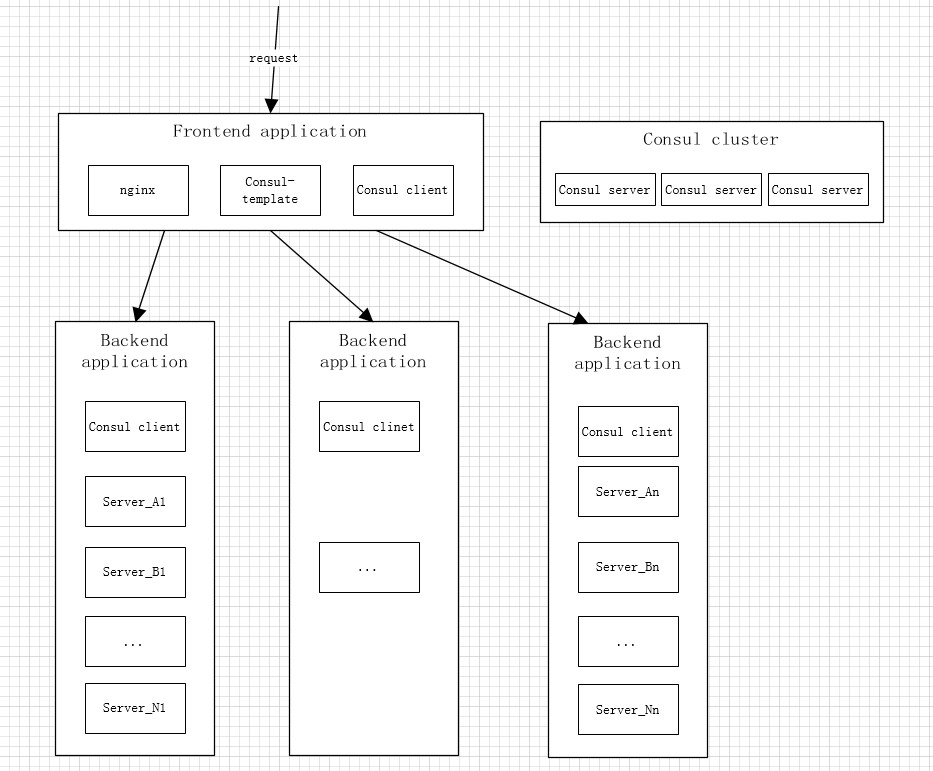
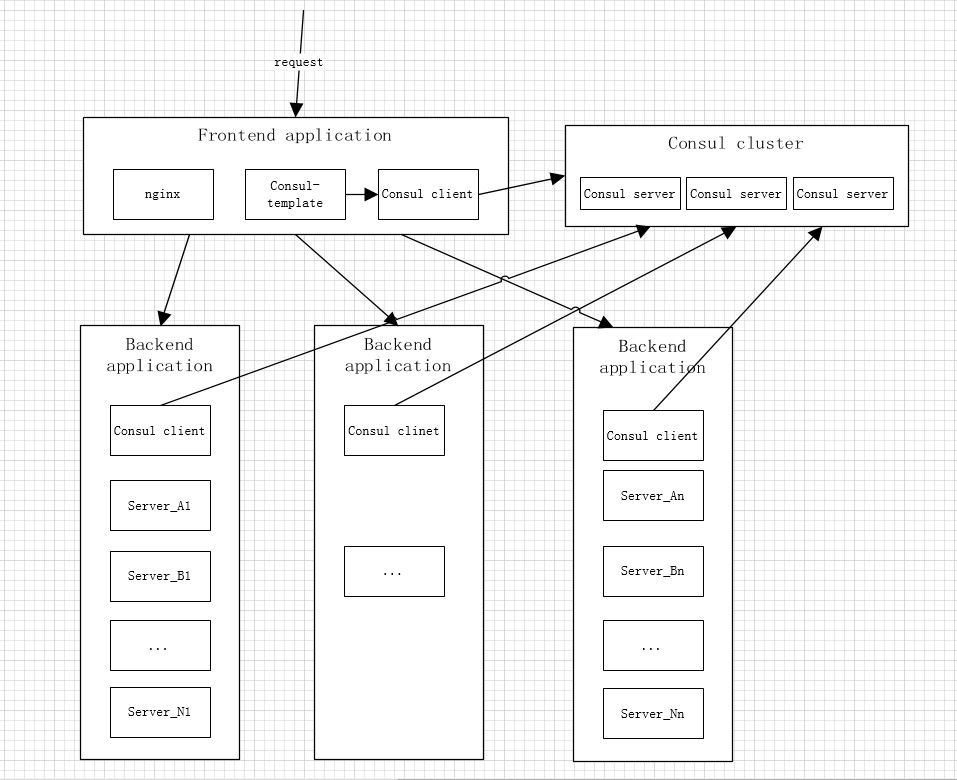
更新consul-and-nginx文档

Changed region(s): [[0.0, 0.0, 1.0, 1.0]]

diff --git a/source/_posts/2019-10-29-consul-and-nginx.md b/source/_posts/2019-10-29-consul-and-nginx.md
@@ -20,3 +20,125 @@ consul 使用go语言实现，只需要到官网[https://www.consul.io/downloads
 
 consul 完成安装后，需要运行agent 。 agent可以分为 server 和 client 模式，每个数据中心至少必须有一台 server ，建议一个集群里有3到5个 server ，部署单一的 server，在出现失败时会不可避免的造成数据丢失。
 
+## consul 架构
+
+consul官方架构图如图所示:
+![consul-arch](./2019-10-29-consul-and-nginx/consul-arch.png)
+
+图中包含了consul多数据中心的设计，本次只讲上面单数据中心的情况。consul推荐3-5台server做集群，其他节点和server通信通过client代理。
+
+consul client设计为sidecar模式。使用client代理的好处，所有操作都只用对本机client进程操作，读操作(如服务发现、kv读)减轻consul集群压力，写操作(如服务注册、kv写等)由client代理通过rpc转发到consul集群，解耦一些业务不相关的操作，如建康检查等。
+
+## consul配合nginx使用实现动态负载均衡
+
+### 只使用nginx做负载均衡
+
+一般只使用nginx做负载均衡的设计如下图所示：
+![consul-arch](./2019-10-29-consul-and-nginx/Snipaste_2019-11-01_15-50-58.jpg)
+
+nginx单独部署，然后将请求负载均衡到对应服务器上的具体业务服务。
+这样做的好处是使用了nginx带来的好处，缺点是nginx负载均衡只支持静态配置文件，业务服务下线或者上线，需要手动修改配置文件重启nginx生效。
+
+### consul配合nginx使用
+
+使用conusl做为注册中心，可以将设计改为如下图所示：
+![consul-arch](./2019-10-29-consul-and-nginx/Snipaste_2019-11-01_16-12-17.jpg)
+
+所有微服务的服务注册和服务发现由consul集群管理，微服务只需要实现/调用服务注册，服务发现和建康检查3个http接口，在服务启动时将服务注册请求到本机consul client即可。
+
+我们将nginx的upstream配置使用consul-template写出模板文件，然后启动consul-template进程监听。当有微服务下线或者上线新的微服务，consul-template能根据模板文件更新nginx配置文件，并执行自定义命令(重启nginx)，这样就完成了微服务上下线/维护/扩容时，nginx负载均衡做动态更新。
+
+consul集群的高可用需要部署3-5台consul server，多了影响网络性能，小于3台则consul server不能出现单机故障。
+
+nginx所在机子的高可用可以使用keepalived，主从配置，从机可同主机配置和启动方式一样，这样微服务在线状态更新时，从机的nginx配置也是最新的，如果主机故障了，从机可以顺利切换。
+
+微服务的高可用理论上(单机能够满足业务qps的情况）只需相同的微服务部署大于1台机子即可，这样一台机子故障了，请求还能负载均衡到另一台上继续业务。
+
+讲了使用consul, consul-template,nginx配合进行动态负载均衡的情况，也总结一下缺点：
+
+1.如果网络情况不好的情况，可能会出现具体业务微服务频繁上下线导致频繁更新nginx配置，nginx频繁重启。这点可以考虑适当加大心跳时间来避免偶尔网络状况带来的心跳检测问题，或者将consul-template配置成定时同步(配置会更新不实时，但是如果大量上下线微服务可以只用更新一次配置，重启一次)。
+
+2.nginx重启多少会对性能带来一些影响，nginx reload机制保证已经接收请求的进程在处理完请求再退出，但是不满足http keepalive。
+consul支持dns查询，nginx也支持配置dns，可以考虑使用nginx dns查询代替consul-template，这样不需要更新nginx配置和重启nginx。但是原生nginx不支持dns srv，所以如果出现一台机子上部署相同微服务使用不同端口，nginx dns查询方式就不能正确支持并负载均衡了。
+
+## consul 集群部署
+
+### consul server单节点启动命令示例
+
+``` sh
+consul agent -bind=ip -server=true -bootstrap -client=0.0.0.0 -ui -data-dir=/path/to/data  -config-dir=/path/to/config -datacenter=datacenter_name -node=node_name
+```
+
+```-bind```在多网卡时需要使用，多网卡时，consul不清楚绑定哪个网卡，需要指定ip，单网卡时可以不填。
+
+```-sever```模式表示consul agent以client还是server模式启动，默认为server模式，以client模式启动需修改为-server=false,
+
+```-bootstrap```表示以bootstrap模式启动，单节点时必填，不然会因为没有leader无法正常启动，同命令```-bootstrap-expect```互斥，后续部署集群再继续讲。
+
+```-client``` 配置ip表示可以访问consul http api这个server监听的ip，如果为127.0.0.1只能本机访问。
+
+```-ui```表示启动consul默认web界面。-data-dir为consul保存节点信息的路径，必填。
+
+```-config-dir```为consul配置文件信息路径，可填可不填，在配置文件路径里的json文件。
+
+```-datacenter```指定数据中心名称，不填默认dc1,同一数据中心下的名称要求一定相同。
+
+```-node```表示节点名称，不填默认pc的名称，建议按照一定格式规范节点名
+
+更多命令参数和解释可以参考官网:[https://www.consul.io/docs/agent/options.html#command-line-options](https://www.consul.io/docs/agent/options.html#command-line-options)
+
+### consul 集群部署命令示例
+
+consul可以以两种方式启动集群，一种是指定leader启动，先启动一个leader，再依次启动剩下节点，然后执行命令 ```consul join leader ip```。leader启动命令同上，带上```-bootstrap```参数。
+
+另一种启动方式为不指定leader启动三个节点，启动命令同上，```-bootstrap```替换为```-bootstrap-expecp=3```，三个节点都启动完后因为没有leader和不知道彼此，集群还不能使用，在三个节点依次执行命令```consul join ip1 ip2 ip3``` 三台机子都执行完后，会进行选举，然后集群可以使用。
+
+判断集群是否可以使用可以登录consul自带的web页面，若报错则表示未正常运行，web页面默认是8500端口，如图所示为一个三节点集群，leader为五角星标志的机子：![cluster.jpg](./2019-10-29-consul-and-nginx/Snipaste_2019-11-04_19-19-28.jpg)
+
+## consul client启动
+
+consul client启动命令同consul server大致相同，区别 -server=false必须为false，不能使用-bootstrap或者-bootstrap-expect参数，其他同server启动命令一致。
+consul client加入器群节点也很简单，可以在启动时加入-join=consul server中其中一台的ip，也可先启动，再执行命令```consul join server ip```
+
+``` sh
+consul agent -bind=ip -server=false -client=0.0.0.0 -ui -data-dir=/path/to/data -config-dir=/path/to/config -datacenter=datacenter_name -node=node_name -join=ip
+```
+
+或者不带上```-join```，启动完后执行```consul join ip```
+
+consul client不可脱离consul server运行，至少要有一个consul server节点，且client要join server节点才可使用
+
+## consul-tempalte使用
+
+### 安装conusl-template
+
+到官网[https://releases.hashicorp.com/consul-template](https://releases.hashicorp.com/consul-template)下载对应平台的二进制文件即可，部署方式同consul。
+
+### 编写consul-template模板
+
+``` tpl
+upstream web {
+   {{ range service "web" }}
+   server {{ .Address }}:{{ .Port }} weight=1;
+   {{ end }}
+}
+```
+
+示例为一个upstream.tpl文件，```{{ range service "web" }}```和```{{ end }}```类似for循环， ```web```表示服务发现名称为web的服务，ip和端口不做解释。
+
+nginx.conf里include这部分模板生成的对应文件,如图所示：![config](./2019-10-29-consul-and-nginx/Snipaste_2019-11-04_19-54-23.jpg)
+
+### 启动consul-template
+
+``` sh
+consul-template -consul-addr 127.0.0.1:8500 -template "./upstream.tpl:./conf/upstream.conf:nginx -s reload"
+```
+
+如上所示为一个consul-template监控集群微服务上下线状况后并更新相应nginx配置的启动命令。
+
+```-consul-addr```指定 consul client/server的ip和http端口，此处我们还是使用consul推荐的连本机client的方式，所以ip是127.0.0.1，端口默认是8500。consul不限制server可以被使用，也可以将ip配置成consul集群的里其中一个consul server的ip，推荐还是使用当前方式，即consul推荐的方式。
+
+```-template```表示执行的模板命令,upstream.tpl为之前编写的consul-template模板文件的具体路径，upstream.conf为生成的配置文件，同上面截图```include upstream.conf```相对应，```nginx -s reload```生成完配置文件后重启nignx，也可以自定义别的命令。
+这样当有服务在线状态变化，upstream.conf文件会自动生成，并重启nginx动态更新nginx的负载均衡。
+
+更多命令和用法参考官网:[https://github.com/hashicorp/consul-template#command-line-flags](https://github.com/hashicorp/consul-template#command-line-flags)
